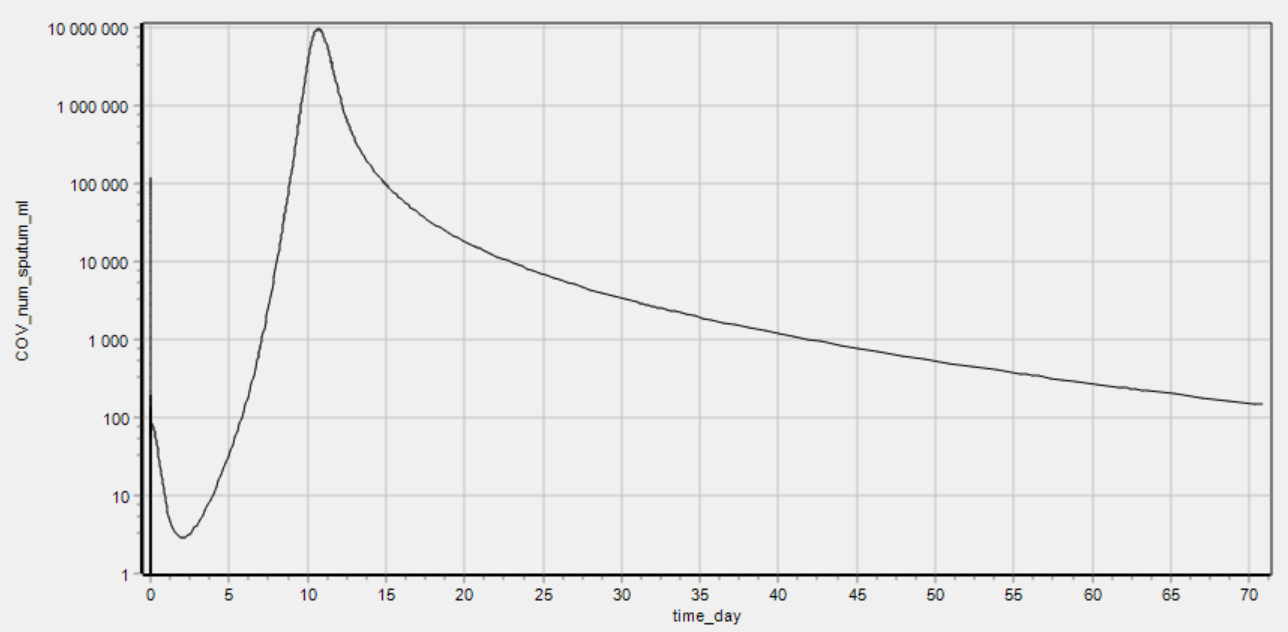
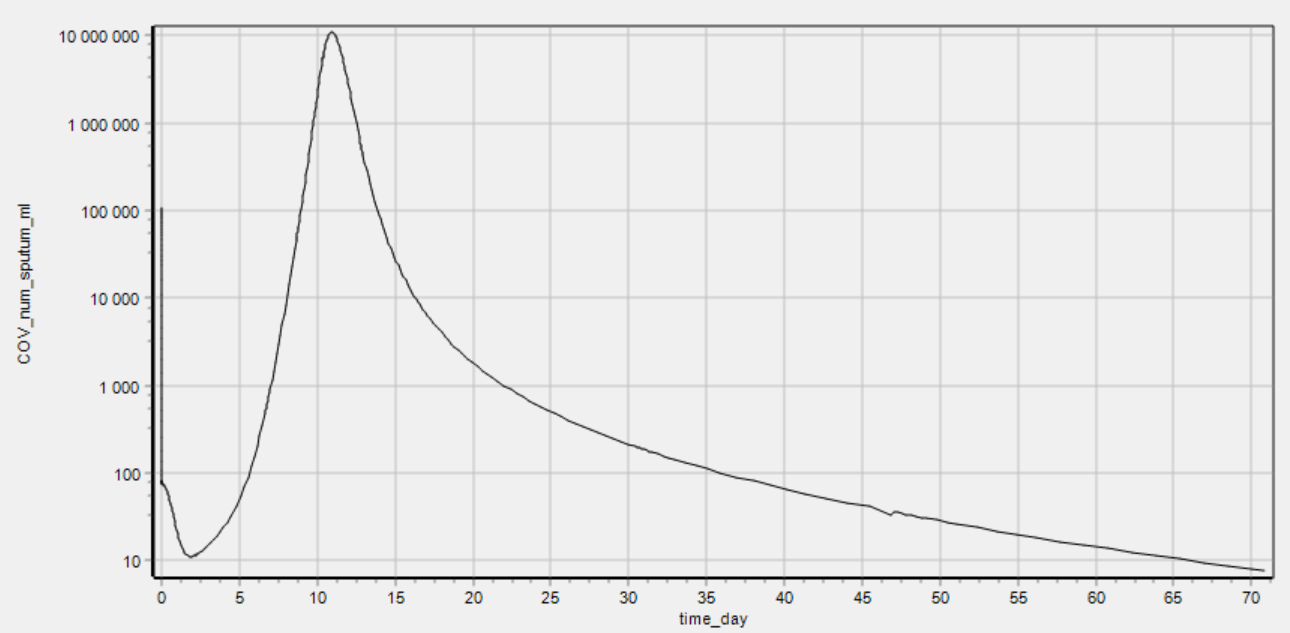
Deploying to dist from  @ da81adb80d481446c316ca47c5d28c1203b62638 🚀

diff --git a/covid19_integrated_simbio/model.m b/covid19_integrated_simbio/model.m
@@ -29,7 +29,7 @@ nameless.species.ACE2_vpc = addspecies(nameless.compartment.Vol_alv, 'ACE2_vpc',
 nameless.species.COV_ACE2_vpc = addspecies(nameless.compartment.Vol_alv, 'COV_ACE2_vpc', 'ConstantAmount', false, 'InitialAmount', 0, 'InitialAmountUnits', 'picomole', 'BoundaryCondition', false, 'Notes', '', 'Tag', '');
 nameless.species.COV_vpc = addspecies(nameless.compartment.Vol_alv, 'COV_vpc', 'ConstantAmount', false, 'InitialAmount', 0, 'InitialAmountUnits', 'picomole', 'BoundaryCondition', false, 'Notes', '', 'Tag', '');
 nameless.species.COV_RNA_vpc = addspecies(nameless.compartment.Vol_alv, 'COV_RNA_vpc', 'ConstantAmount', false, 'InitialAmount', 0, 'InitialAmountUnits', 'picomole', 'BoundaryCondition', false, 'Notes', '', 'Tag', '');
-nameless.species.COV = addspecies(nameless.compartment.Vol_alv, 'COV', 'ConstantAmount', false, 'InitialAmount', 0.002, 'InitialAmountUnits', 'picomole/litre', 'BoundaryCondition', false, 'Notes', '', 'Tag', '');
+nameless.species.COV = addspecies(nameless.compartment.Vol_alv, 'COV', 'ConstantAmount', false, 'InitialAmount', 0.0018, 'InitialAmountUnits', 'picomole/litre', 'BoundaryCondition', false, 'Notes', '', 'Tag', '');
 nameless.species.COV_RNA = addspecies(nameless.compartment.Vol_alv, 'COV_RNA', 'ConstantAmount', false, 'InitialAmount', 0, 'InitialAmountUnits', 'picomole/litre', 'BoundaryCondition', false, 'Notes', '', 'Tag', '');
 nameless.species.COVass_vpc = addspecies(nameless.compartment.Vol_alv, 'COVass_vpc', 'ConstantAmount', false, 'InitialAmount', 0, 'InitialAmountUnits', 'picomole', 'BoundaryCondition', false, 'Notes', '', 'Tag', '');
 nameless.species.anti_Ab = addspecies(nameless.compartment.Vol_alv, 'anti_Ab', 'ConstantAmount', false, 'InitialAmountUnits', 'picomole/litre', 'BoundaryCondition', true, 'Notes', '<p>hill like expression describes general kinetic pattern observed for Spike specific IgG and IgM in [32350462]</p>', 'Tag', '');
@@ -74,8 +74,8 @@ nameless.parameter.NA_pmole = addparameter(nameless_model, 'NA_pmole', 'Constant
 nameless.parameter.sputum_dilution_coef = addparameter(nameless_model, 'sputum_dilution_coef', 'ConstantValue', true, 'Value', 0.1, 'ValueUnits', 'dimensionless', 'Notes', '', 'Tag', '');
 nameless.parameter.k_apo_pc = addparameter(nameless_model, 'k_apo_pc', 'ConstantValue', true, 'Value', 0.00082, 'ValueUnits', '1/hour', 'Notes', '<p>the value was estimated from the HS submodel at steady state. Indeed, taking into account that (i) PC2 is precursors of PC1 [9227501], (ii) life span of PC1 is about 120 days [20616357], (iii) ratio of PC1/PC2 at steady state = 19/37 [7103258] we represented lung cell  dynamics system as follows: --(Vol<em>alv*k</em>mat<em>pc) --&gt; PC2 --(Vol</em>alv*k<em>dif</em>pc*PC2)--&gt; PC1--(Vol<em>alv*k</em>apo<em>pc1*PC1)--&gt;. Then consider the system at steady state and assuming that lifespan (T</em>ls) corresponds to time required for 99% of cell die we have come to following formulas: (a) k<em>apo</em>pc1 = ln(1/0.01)/(120 days) = 1.6e-3 1/h, (b) k<em>dif</em>pc = k<em>apo</em>pc1*PC1<em>ss/PC2</em>ss = 8.2e-4 1/h, (c) k<em>mat</em>pc = k<em>dif</em>pc*PC2<em>ss. Since  PC2 to PC1 transition was not considered in the version of the model we can assume that k</em>apo<em>pc = k</em>dif_pc</p>', 'Tag', '');
 nameless.parameter.kbase_apo_vpc = addparameter(nameless_model, 'kbase_apo_vpc', 'ConstantValue', true, 'Value', 0.00082, 'ValueUnits', '1/hour', 'Notes', '<p>the value was estimated from [PMID 18487354] only</p>', 'Tag', '');
-nameless.parameter.kbase_tran_pc_ipc = addparameter(nameless_model, 'kbase_tran_pc_ipc', 'ConstantValue', true, 'Value', 10, 'ValueUnits', '1/picomole*litre/hour', 'Notes', '<p>fitted to describe in vivo viral load dynamics</p>', 'Tag', '');
-nameless.parameter.kbase_tran_ipc_vpc = addparameter(nameless_model, 'kbase_tran_ipc_vpc', 'ConstantValue', true, 'Value', 10, 'ValueUnits', '1/picomole*litre/hour', 'Notes', '<p>fitted to describe in vivo viral load dynamics</p>', 'Tag', '');
+nameless.parameter.kbase_tran_pc_ipc = addparameter(nameless_model, 'kbase_tran_pc_ipc', 'ConstantValue', true, 'Value', 4, 'ValueUnits', '1/picomole*litre/hour', 'Notes', '<p>fitted to describe in vivo viral load dynamics</p>', 'Tag', '');
+nameless.parameter.kbase_tran_ipc_vpc = addparameter(nameless_model, 'kbase_tran_ipc_vpc', 'ConstantValue', true, 'Value', 4, 'ValueUnits', '1/picomole*litre/hour', 'Notes', '<p>fitted to describe in vivo viral load dynamics</p>', 'Tag', '');
 nameless.parameter.k_shed_ace2_pc = addparameter(nameless_model, 'k_shed_ace2_pc', 'ConstantValue', true, 'Value', 1.8, 'ValueUnits', '1/hour', 'Notes', '<p>rate constant of shedding catalysed by ADAM17/TACE = 5e-4 1/s</p>', 'Tag', '');
 nameless.parameter.k_off_cov_ace2 = addparameter(nameless_model, 'k_off_cov_ace2', 'ConstantValue', true, 'Value', 23.56, 'ValueUnits', '1/hour', 'Notes', '<p>k_off for viral Spike receptor binding domain (RBD) and ACE2 receptor</p>', 'Tag', '');
 nameless.parameter.Num_sp_per_cov = addparameter(nameless_model, 'Num_sp_per_cov', 'ConstantValue', true, 'Value', 150, 'ValueUnits', 'dimensionless', 'Notes', '<p>Basing on estimate  that virion diameter=120-160 nm and Spike height=20nm we have come to following number of Spikes per virion = 4<em>3.14</em>(70 nm)^2/(3.14<em>(10 nm)^2)  = 4</em>49 = 196. Assuming that &quot;dynamic&quot; diameter of Spike is little bit more we have assumed that there are about  150 spike proteins per 1 virion.</p>', 'Tag', '');
@@ -102,10 +102,10 @@ nameless.parameter.L_to_mL = addparameter(nameless_model, 'L_to_mL', 'ConstantVa
 nameless.reaction.V_mat_pc = addreaction(nameless_model, 'null -> null', 'Name', 'V_mat_pc', 'Active', true, 'Reversible', true, 'ReactionRate', 'Vol_alv * k_apo_pc * PC_hs_ss', 'Notes', '', 'Tag', '');
   addreactant(nameless.reaction.V_mat_pc, [nameless.species.PC_hs_ss, ], [1, ]);
   addproduct(nameless.reaction.V_mat_pc, [nameless.species.PC, nameless.species.PC_hs_ss, ], [1, 1, ]);
-nameless.reaction.V_tran_pc_ipc = addreaction(nameless_model, 'null -> null', 'Name', 'V_tran_pc_ipc', 'Active', true, 'Reversible', true, 'ReactionRate', 'k_tran_pc_ipc * PC', 'Notes', '', 'Tag', '');
+nameless.reaction.V_tran_pc_ipc = addreaction(nameless_model, 'null -> null', 'Name', 'V_tran_pc_ipc', 'Active', true, 'Reversible', true, 'ReactionRate', 'Vol_alv * k_tran_pc_ipc * PC', 'Notes', '', 'Tag', '');
   addreactant(nameless.reaction.V_tran_pc_ipc, [nameless.species.PC, ], [1, ]);
   addproduct(nameless.reaction.V_tran_pc_ipc, [nameless.species.iPC, ], [1, ]);
-nameless.reaction.V_tran_ipc_vpc = addreaction(nameless_model, 'null -> null', 'Name', 'V_tran_ipc_vpc', 'Active', true, 'Reversible', true, 'ReactionRate', 'k_tran_ipc_vpc * iPC', 'Notes', '', 'Tag', '');
+nameless.reaction.V_tran_ipc_vpc = addreaction(nameless_model, 'null -> null', 'Name', 'V_tran_ipc_vpc', 'Active', true, 'Reversible', true, 'ReactionRate', 'Vol_alv * k_tran_ipc_vpc * iPC', 'Notes', '', 'Tag', '');
   addreactant(nameless.reaction.V_tran_ipc_vpc, [nameless.species.iPC, ], [1, ]);
   addproduct(nameless.reaction.V_tran_ipc_vpc, [nameless.species.vPC, ], [1, ]);
 nameless.reaction.V_apo_pc = addreaction(nameless_model, 'null -> null', 'Name', 'V_apo_pc', 'Active', true, 'Reversible', true, 'ReactionRate', 'Vol_alv * k_apo_pc * PC', 'Notes', '', 'Tag', '');
@@ -204,8 +204,8 @@ nameless.reaction.V_deg_cov_rna = addreaction(nameless_model, 'null -> null', 'N
 % Rules
 addrule(nameless_model, 'time_day = time / 24', 'repeatedAssignment');
 addrule(nameless_model, 'k_syn_ace2_pc = k_shed_ace2_pc * ACE2_pc_hs_ss / PC_hs_ss / Vol_pc / Vol_alv / kcell_to_cell', 'repeatedAssignment');
-addrule(nameless_model, 'k_tran_pc_ipc = kbase_tran_pc_ipc * COV_ACE2_pc', 'repeatedAssignment');
-addrule(nameless_model, 'k_tran_ipc_vpc = kbase_tran_ipc_vpc * COV_ipc', 'repeatedAssignment');
+addrule(nameless_model, 'k_tran_pc_ipc = kbase_tran_pc_ipc * COV_ACE2_pc / Vol_alv', 'repeatedAssignment');
+addrule(nameless_model, 'k_tran_ipc_vpc = kbase_tran_ipc_vpc * COV_ipc / Vol_alv', 'repeatedAssignment');
 addrule(nameless_model, 'VO = anti_Ab / (Kd_anti_Ab + anti_Ab)', 'repeatedAssignment');
 addrule(nameless_model, 'Kd_cov_ace2 = Kd_spike_ace2 / Num_sp_per_cov / (1 - VO)', 'repeatedAssignment');
 addrule(nameless_model, 'ACE2_pc_per_cell = NA_pmole * ACE2_pc / PC / Vol_alv / kcell_to_cell', 'repeatedAssignment');

diff --git a/covid19_integrated_matlab/model.m b/covid19_integrated_matlab/model.m
@@ -23,7 +23,7 @@ function [ode_func, out_func, y0_, events_conditions, events_affects, reinit_y0]
         vPC = 1; % vPC, concentration of vPC (Pneumocytes with virus actively replicated) in alveoli (kcell/L)
         Vol_alv = 0.014; % Vol_alv, Volume of surfactant linning alveolar surface (L)
         COVass_vpc_per_cell = p(2) * COVass_vpc / vPC / Vol_alv / p(1); % COVass_vpc_per_cell, number of COVass per vPC cell (item/cell)
-        COV = 0.002; % COV, concentration of  COV (SARS-CoV-2 virus) (pM)
+        COV = 0.0018; % COV, concentration of  COV (SARS-CoV-2 virus) (pM)
         COV_RNA = 0; % COV_RNA, concentration of COV_RNA released from vPC due to their apoptosis (pM)
         COV_num_sputum_ml = p(3) * (COV + COV_RNA) * p(2) / p(28); % COV_num_sputum_ml, number of virus copies in 1 mL of sputum (item/mL)
         PC = 2.643e+9; % PC, concentration of PC type II (Pneumocytes free of virus) in alveoli (kcell/L)
@@ -59,10 +59,10 @@ function [ode_func, out_func, y0_, events_conditions, events_affects, reinit_y0]
         COV_sgRNA_perc = 100 * COV_RNA / (COV + COV_RNA); % COV_sgRNA_perc, percent of actively transcribed subgenomic RNA of total (packed + unpacked) RNA in sputum samples taken from the patients (UL)
         PC_hs_ss = 2.643e+9; % PC_hs_ss, concentration of PC type II at steady state w/o virus exposure (kcell/L)
         V_mat_pc = Vol_alv * p(4) * PC_hs_ss; % V_mat_pc, influx of Pneumocytes via maturation (kcell/h)
-        k_tran_pc_ipc = p(6) * COV_ACE2_pc; % k_tran_pc_ipc, apparent rate constant of PC to iPC transition (1/h)
-        V_tran_pc_ipc = k_tran_pc_ipc * PC; % V_tran_pc_ipc, transition of Pneumocyte from normal state to state with entered COV (kcell/h)
-        k_tran_ipc_vpc = p(7) * COV_ipc; % k_tran_ipc_vpc, apparent rate constant of iPC to vPC transition (1/h)
-        V_tran_ipc_vpc = k_tran_ipc_vpc * iPC; % V_tran_ipc_vpc, transition of Pneumocyte from state with entered COV to state able to produce viral particles (kcell/h)
+        k_tran_pc_ipc = p(6) * COV_ACE2_pc / Vol_alv; % k_tran_pc_ipc, apparent rate constant of PC to iPC transition (1/h)
+        V_tran_pc_ipc = Vol_alv * k_tran_pc_ipc * PC; % V_tran_pc_ipc, transition of Pneumocyte from normal state to state with entered COV (kcell/h)
+        k_tran_ipc_vpc = p(7) * COV_ipc / Vol_alv; % k_tran_ipc_vpc, apparent rate constant of iPC to vPC transition (1/h)
+        V_tran_ipc_vpc = Vol_alv * k_tran_ipc_vpc * iPC; % V_tran_ipc_vpc, transition of Pneumocyte from state with entered COV to state able to produce viral particles (kcell/h)
         V_apo_pc = Vol_alv * p(4) * PC; % V_apo_pc, apoptosis of Pneumocyte (kcell/h)
         V_apo_ipc = Vol_alv * p(4) * iPC; % V_apo_ipc, apoptosis of iPneumocyte (kcell/h)
         switch_ir = 0; % switch_ir, switch of effect of IR on vPC apoptosis (UL)
@@ -250,13 +250,13 @@ function [ode_func, out_func, y0_, events_conditions, events_affects, reinit_y0]
         % influx of Pneumocytes via maturation (kcell/h) 
         V_mat_pc = Vol_alv * p(4) * PC_hs_ss;
         % apparent rate constant of PC to iPC transition (1/h) 
-        k_tran_pc_ipc = p(6) * COV_ACE2_pc;
+        k_tran_pc_ipc = p(6) * COV_ACE2_pc / Vol_alv;
         % transition of Pneumocyte from normal state to state with entered COV (kcell/h) 
-        V_tran_pc_ipc = k_tran_pc_ipc * PC;
+        V_tran_pc_ipc = Vol_alv * k_tran_pc_ipc * PC;
         % apparent rate constant of iPC to vPC transition (1/h) 
-        k_tran_ipc_vpc = p(7) * COV_ipc;
+        k_tran_ipc_vpc = p(7) * COV_ipc / Vol_alv;
         % transition of Pneumocyte from state with entered COV to state able to produce viral particles (kcell/h) 
-        V_tran_ipc_vpc = k_tran_ipc_vpc * iPC;
+        V_tran_ipc_vpc = Vol_alv * k_tran_ipc_vpc * iPC;
         % apoptosis of Pneumocyte (kcell/h) 
         V_apo_pc = Vol_alv * p(4) * PC;
         % apoptosis of iPneumocyte (kcell/h) 
@@ -464,13 +464,13 @@ function [ode_func, out_func, y0_, events_conditions, events_affects, reinit_y0]
         % influx of Pneumocytes via maturation (kcell/h) 
         V_mat_pc = Vol_alv * p(4) * PC_hs_ss;
         % apparent rate constant of PC to iPC transition (1/h) 
-        k_tran_pc_ipc = p(6) * COV_ACE2_pc;
+        k_tran_pc_ipc = p(6) * COV_ACE2_pc / Vol_alv;
         % transition of Pneumocyte from normal state to state with entered COV (kcell/h) 
-        V_tran_pc_ipc = k_tran_pc_ipc * PC;
+        V_tran_pc_ipc = Vol_alv * k_tran_pc_ipc * PC;
         % apparent rate constant of iPC to vPC transition (1/h) 
-        k_tran_ipc_vpc = p(7) * COV_ipc;
+        k_tran_ipc_vpc = p(7) * COV_ipc / Vol_alv;
         % transition of Pneumocyte from state with entered COV to state able to produce viral particles (kcell/h) 
-        V_tran_ipc_vpc = k_tran_ipc_vpc * iPC;
+        V_tran_ipc_vpc = Vol_alv * k_tran_ipc_vpc * iPC;
         % apoptosis of Pneumocyte (kcell/h) 
         V_apo_pc = Vol_alv * p(4) * PC;
         % apoptosis of iPneumocyte (kcell/h) 

diff --git a/covid19_integrated_matlab/param.m b/covid19_integrated_matlab/param.m
@@ -10,8 +10,8 @@ p(2) = 602000000000; % NA_pmole, Avogadro constant for 1 pmole (item/pmole)
 p(3) = 0.1; % sputum_dilution_coef, dilution of sputum in comparison with lung epithelium lining fluid (UL) 
 p(4) = 0.00082; % k_apo_pc, rate constant of PC and iPC apoptosis (1/h) the value was estimated from the HS submodel at steady state. Indeed, taking into account that (i) PC2 is precursors of PC1 [9227501], (ii) life span of PC1 is about 120 days [20616357], (iii) ratio of PC1/PC2 at steady state = 19/37 [7103258] we represented lung cell  dynamics system as follows: --(Vol_alv*k_mat_pc) --> PC2 --(Vol_alv*k_dif_pc*PC2)--> PC1--(Vol_alv*k_apo_pc1*PC1)-->. Then consider the system at steady state and assuming that lifespan (T_ls) corresponds to time required for 99% of cell die we have come to following formulas: (a) k_apo_pc1 = ln(1/0.01)/(120 days) = 1.6e-3 1/h, (b) k_dif_pc = k_apo_pc1*PC1_ss/PC2_ss = 8.2e-4 1/h, (c) k_mat_pc = k_dif_pc*PC2_ss. Since  PC2 to PC1 transition was not considered in the version of the model we can assume that k_apo_pc = k_dif_pc
 p(5) = 0.00082; % kbase_apo_vpc, rate constant of vPC apoptosis (1/h) the value was estimated from [PMID 18487354] only
-p(6) = 10; % kbase_tran_pc_ipc, rate constant of PC to iPC transition (1/pM/h) fitted to describe in vivo viral load dynamics
-p(7) = 10; % kbase_tran_ipc_vpc, rate constant of iPC to vPC transition (1/pM/h) fitted to describe in vivo viral load dynamics
+p(6) = 4; % kbase_tran_pc_ipc, rate constant of PC to iPC transition (1/pM/h) fitted to describe in vivo viral load dynamics
+p(7) = 4; % kbase_tran_ipc_vpc, rate constant of iPC to vPC transition (1/pM/h) fitted to describe in vivo viral load dynamics
 p(8) = 1.8; % k_shed_ace2_pc, rate constant of ACE2 shedding (1/h) rate constant of shedding catalysed by ADAM17/TACE = 5e-4 1/s
 p(9) = 23.56; % k_off_cov_ace2, rate constant of COV_ACE2 complex dissociation (1/h) k_off for viral Spike receptor binding domain (RBD) and ACE2 receptor
 p(10) = 150; % Num_sp_per_cov, number of Spike proteins per virion (UL) Basing on estimate  that virion diameter=120-160 nm and Spike height=20nm we have come to following number of Spikes per virion = 4*3.14*(70 nm)^2/(3.14*(10 nm)^2)  = 4*49 = 196. Assuming that "dynamic" diameter of Spike is little bit more we have assumed that there are about  150 spike proteins per 1 virion.

diff --git a/covid19_integrated_mrgsolve/model.cpp b/covid19_integrated_mrgsolve/model.cpp
@@ -23,9 +23,9 @@ k_apo_pc : 0.00082 : (1/h)
 // @Const 'rate constant of vPC apoptosis'
 kbase_apo_vpc : 0.00082 : (1/h)
 // @Const 'rate constant of PC to iPC transition'
-kbase_tran_pc_ipc : 10 : (1/pM/h)
+kbase_tran_pc_ipc : 4 : (1/pM/h)
 // @Const 'rate constant of iPC to vPC transition'
-kbase_tran_ipc_vpc : 10 : (1/pM/h)
+kbase_tran_ipc_vpc : 4 : (1/pM/h)
 // @Const 'rate constant of ACE2 shedding'
 k_shed_ace2_pc : 1.8 : (1/h)
 // @Const 'rate constant of COV_ACE2 complex dissociation'
@@ -112,7 +112,7 @@ $PREAMBLE
 //double COVass_vpc = 0.0;
 //double vPC = 1.0;
 double Vol_alv = 0.014;
-//double COV = 0.002;
+//double COV = 0.0018;
 //double COV_RNA = 0.0;
 //double PC = 2643000000.0;
 //double iPC = 1.0;
@@ -132,7 +132,7 @@ double ACE2_pc_hs_ss = 615.0;
 $MAIN
 COVass_vpc_0 = (0.0);
 vPC_amt__0 = (1.0) * Vol_alv;
-COV_amt__0 = (0.002) * Vol_alv;
+COV_amt__0 = (0.0018) * Vol_alv;
 COV_RNA_amt__0 = (0.0) * Vol_alv;
 PC_amt__0 = (2643000000.0) * Vol_alv;
 iPC_amt__0 = (1.0) * Vol_alv;
@@ -196,13 +196,13 @@ double COV_sgRNA_perc = 100.0 * COV_RNA / (COV + COV_RNA);
 // @Reaction 'influx of Pneumocytes via maturation'
 double V_mat_pc = Vol_alv * k_apo_pc * PC_hs_ss;
 // @Record 'apparent rate constant of PC to iPC transition'
-double k_tran_pc_ipc = kbase_tran_pc_ipc * COV_ACE2_pc;
+double k_tran_pc_ipc = kbase_tran_pc_ipc * COV_ACE2_pc / Vol_alv;
 // @Reaction 'transition of Pneumocyte from normal state to state with entered COV'
-double V_tran_pc_ipc = k_tran_pc_ipc * PC;
+double V_tran_pc_ipc = Vol_alv * k_tran_pc_ipc * PC;
 // @Record 'apparent rate constant of iPC to vPC transition'
-double k_tran_ipc_vpc = kbase_tran_ipc_vpc * COV_ipc;
+double k_tran_ipc_vpc = kbase_tran_ipc_vpc * COV_ipc / Vol_alv;
 // @Reaction 'transition of Pneumocyte from state with entered COV to state able to produce viral particles'
-double V_tran_ipc_vpc = k_tran_ipc_vpc * iPC;
+double V_tran_ipc_vpc = Vol_alv * k_tran_ipc_vpc * iPC;
 // @Reaction 'apoptosis of Pneumocyte'
 double V_apo_pc = Vol_alv * k_apo_pc * PC;
 // @Reaction 'apoptosis of iPneumocyte'

diff --git a/README.md b/README.md
@@ -33,5 +33,4 @@ git pull
 
 ### format: Simbio
 
-*Simulations display wrong results in comparison with DBSolve, Matlab and COPASI. 
-We are working on Simbio version of the code.*
+![default-matlab-plot](./plots/default-simbio-plot.png)
